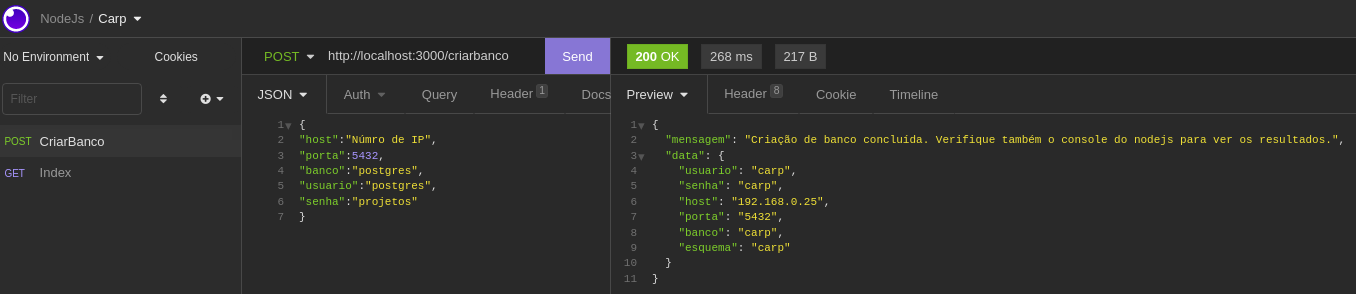
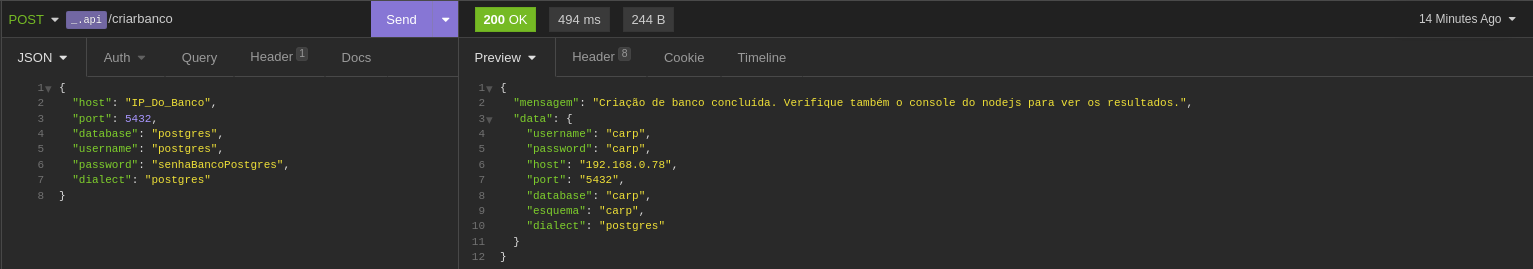
Atualizando a documentação

diff --git a/README.md b/README.md
@@ -6,7 +6,6 @@ API para controle de clientes, usuários, funcionários, produtos, geração de 
 ## Índice
 
 - [Carp](#carp)
-  - [Índice](#índice)
   - [Iniciando](#iniciando)
     - [Pré-requisitos](#pré-requisitos)
     - [Variáveis de ambiente](#variáveis-de-ambiente)
@@ -93,20 +92,21 @@ Utilizando uma requisição POST passando no body da mesma, com o formato JSON a
 
 ```
 {
-"host":"enderecoBanco",
-"porta":5432,
-"banco":"postgres",
-"usuario":"postgres",
-"senha":"senhaBanco"
+	"host": "IP_Do_Banco",
+	"port": 5432,
+	"database": "postgres",
+	"username": "postgres",
+	"password": "senhaBancoPostgres",
+	"dialect": "postgres"
 }
 ```
 Onde:
 
 - host - É o endereço ou IP de acesso ao banco padrão postgres.
-- porta - Porta de acesso ao banco (padrão 5432).
-- banco - Nome do banco padrão do postgres.
-- usuario - Usuário de acesso ao banco com permissão de criar bancos.
-- senha - Senha do usuário de acesso ao banco padrão do postgres.
+- port - Porta de acesso ao banco (padrão 5432).
+- database - Nome do banco padrão do postgres.
+- username - Usuário de acesso ao banco com permissão de criar bancos.
+- password - Senha do usuário de acesso ao banco padrão do postgres.
 
 Ao témino será criado um usuário com nome **carp** e um banco, também, de nome **carp**.  
 Abaixo a imagem de retorno de uma requisição do tipo POST para criação do banco de dados.  
